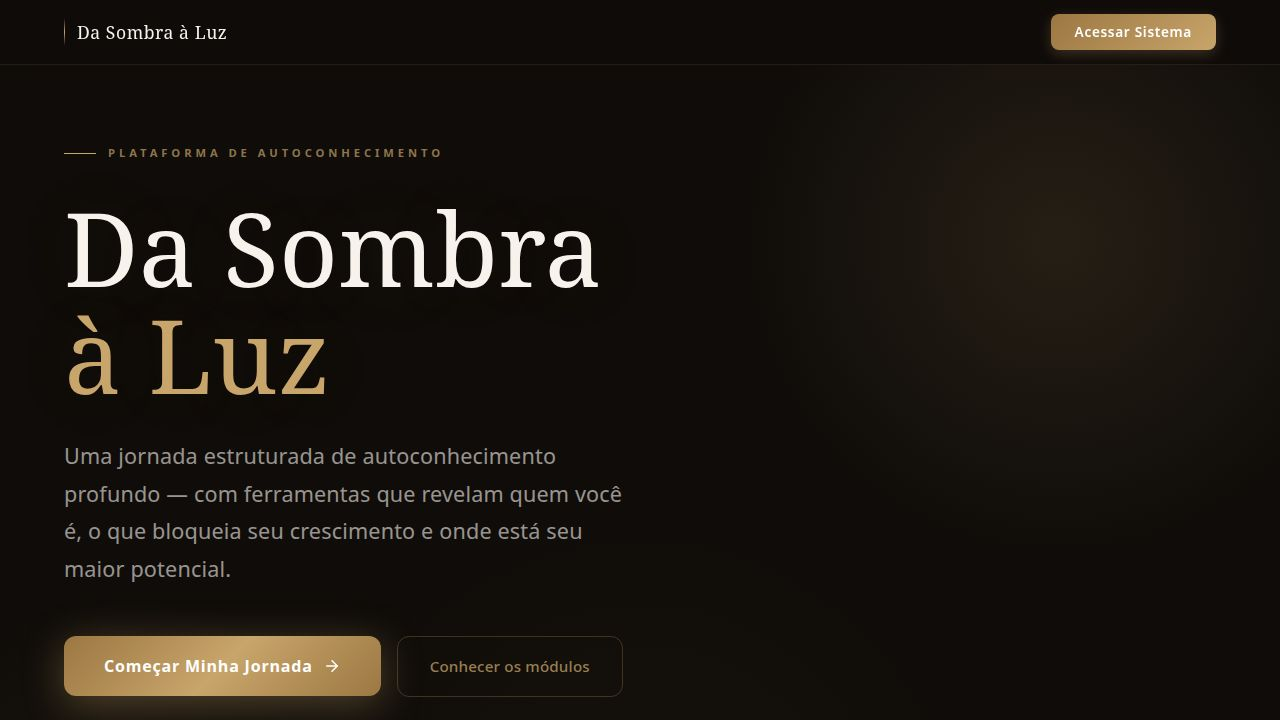
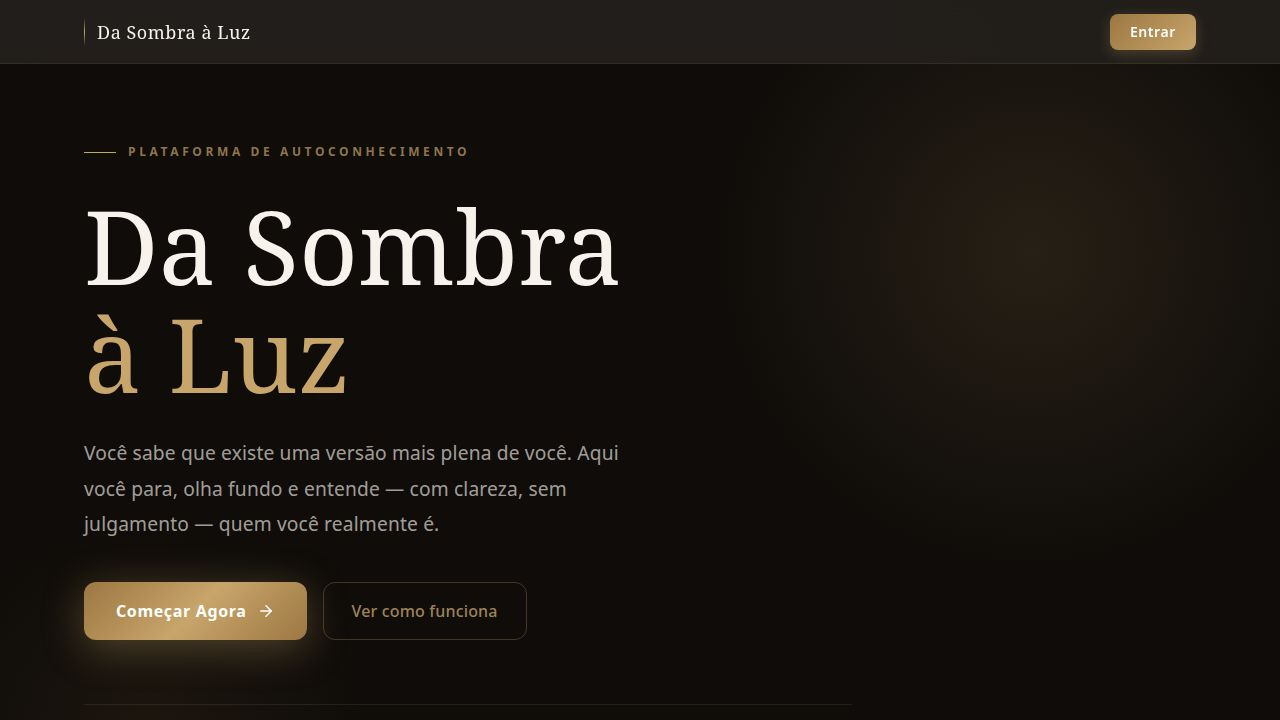
Update page design to use a dark background consistently
Replace 'luxury-shell' class with a dark gradient background style in TracodeCaraterPage.tsx.

Replit-Commit-Author: Agent
Replit-Commit-Session-Id: 02ec9854-192a-4995-af76-cbd340e37728
Replit-Commit-Checkpoint-Type: full_checkpoint
Replit-Commit-Event-Id: 150f340a-f8f1-46c1-9657-4a48b1e7e736
Replit-Commit-Screenshot-Url: https://storage.googleapis.com/screenshot-production-us-central1/91d6a899-e845-47c4-a9e2-9d859d8a7ff5/02ec9854-192a-4995-af76-cbd340e37728/1rX2rxY
Replit-Helium-Checkpoint-Created: true

diff --git a/artifacts/luz-e-sombra/src/pages/TracodeCaraterPage.tsx b/artifacts/luz-e-sombra/src/pages/TracodeCaraterPage.tsx
@@ -273,7 +273,7 @@ export default function TracodeCaraterPage() {
   const configPrincipal = estruturaPrincipal ? ESTRUTURAS_CONFIG[estruturaPrincipal] : null;
 
   return (
-    <div className="luxury-shell min-h-screen">
+    <div className="min-h-screen" style={{ background: "linear-gradient(160deg, #1e1812 0%, #2a1f14 50%, #2f251b 100%)" }}>
       {/* ── Hero ── */}
       <section
         className="relative overflow-hidden"
